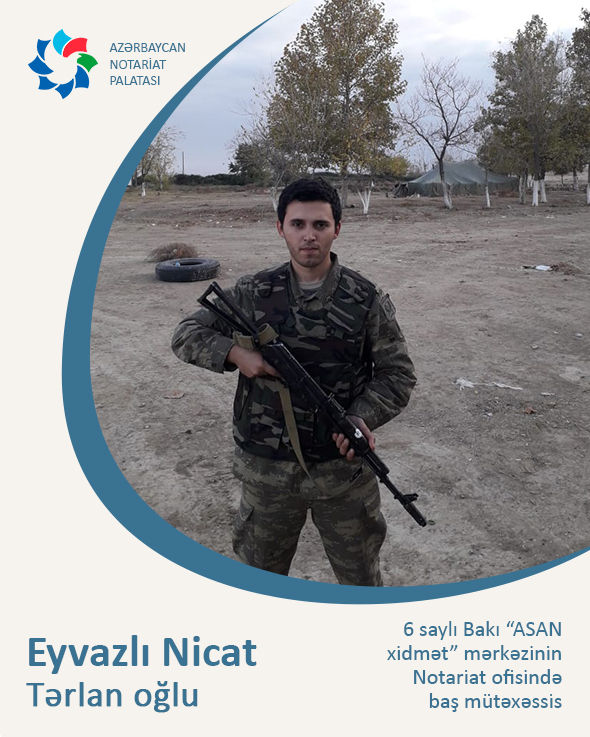
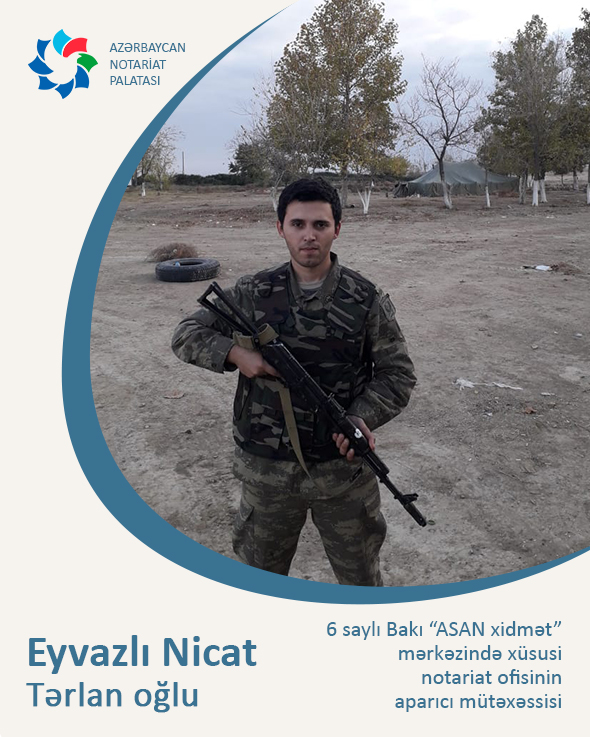
latest changes applied - range is changed

Changed region(s): [[0.5492, 0.8426, 0.9458, 0.9674]]

diff --git a/src/views/Home.vue b/src/views/Home.vue
@@ -64,6 +64,57 @@
           justify-content-md-between justify-content-center
         "
       >
+
+        <div class="col-md-3 col-9 box text-center mb-5" id="ozal">
+          <img src="../../public/images/ozal.jpg" alt="Avatar" class="image" />
+          <div class="overlay">
+            <router-link to="ozal" class="more_button">ƏTRAFLI</router-link>
+          </div>
+        </div>
+
+        <div class="col-md-3 col-9 box text-center mb-5" id="nofer">
+          <img src="../../public/images/nofer.jpg" alt="Avatar" class="image" />
+          <div class="overlay">
+            <router-link
+              to="nofer"
+              data-bs-toggle="modal"
+              data-bs-target="#exampleModal"
+              class="more_button"
+              >ƏTRAFLI</router-link
+            >
+          </div>
+        </div>
+
+        <div class="col-md-3 col-9 box text-center mb-5" id="nicat">
+          <img src="../../public/images/nicat.jpg" alt="Avatar" class="image" />
+          <div class="overlay">
+            <router-link
+              to="nicat"
+              data-bs-toggle="modal"
+              data-bs-target="#exampleModal"
+              class="more_button"
+              >ƏTRAFLI</router-link
+            >
+          </div>
+        </div>
+      </div>
+
+      <div
+        class="
+          row
+          mb-0 mb-md-4
+          box-container
+          justify-content-md-between justify-content-center
+        "
+      >
+
+       <div class="col-md-3 col-9 box text-center mb-5" id="ayxan">
+          <img src="../../public/images/ayxan.jpg" alt="Avatar" class="image" />
+          <div class="overlay">
+            <router-link to="ayxan" class="more_button">ƏTRAFLI</router-link>
+          </div>
+        </div>
+
         <div class="col-md-3 col-9 box text-center mb-5" id="ziya">
           <img src="../../public/images/ziya.jpg" alt="Avatar" class="image" />
           <div class="overlay">
@@ -81,13 +132,6 @@
             <router-link to="shamxal" class="more_button">ƏTRAFLI</router-link>
           </div>
         </div>
-
-        <div class="col-md-3 col-9 box text-center mb-5" id="ayxan">
-          <img src="../../public/images/ayxan.jpg" alt="Avatar" class="image" />
-          <div class="overlay">
-            <router-link to="ayxan" class="more_button">ƏTRAFLI</router-link>
-          </div>
-        </div>
       </div>
 
       <div
@@ -98,52 +142,10 @@
           justify-content-md-between justify-content-center
         "
       >
-        <div class="col-md-3 col-9 box text-center mb-5" id="nofer">
-          <img src="../../public/images/nofer.jpg" alt="Avatar" class="image" />
-          <div class="overlay">
-            <router-link
-              to="nofer"
-              data-bs-toggle="modal"
-              data-bs-target="#exampleModal"
-              class="more_button"
-              >ƏTRAFLI</router-link
-            >
-          </div>
-        </div>
-
-        <div class="col-md-3 col-9 box text-center mb-5" id="ozal">
-          <img src="../../public/images/ozal.jpg" alt="Avatar" class="image" />
-          <div class="overlay">
-            <router-link to="ozal" class="more_button">ƏTRAFLI</router-link>
-          </div>
-        </div>
-
-        <div class="col-md-3 col-9 box text-center mb-5" id="eli">
+      <div class="col-md-3 col-9 box text-center mb-5" id="eli">
           <img src="../../public/images/eli.jpg" alt="Avatar" class="image" />
           <div class="overlay">
             <router-link to="eli" class="more_button">ƏTRAFLI</router-link>
-          </div>
-        </div>
-      </div>
-
-      <div
-        class="
-          row
-          mb-0 mb-md-4
-          box-container
-          justify-content-md-between justify-content-center
-        "
-      >
-        <div class="col-md-3 col-9 box text-center mb-5" id="nicat">
-          <img src="../../public/images/nicat.jpg" alt="Avatar" class="image" />
-          <div class="overlay">
-            <router-link
-              to="nicat"
-              data-bs-toggle="modal"
-              data-bs-target="#exampleModal"
-              class="more_button"
-              >ƏTRAFLI</router-link
-            >
           </div>
         </div>
       </div>

diff --git a/src/views/nicat.vue b/src/views/nicat.vue
@@ -4,10 +4,26 @@
     <page
       title="Eyvazlı Nicat Tərlan oğlu"
       image="nicat.jpg"
-      body="<p>Eyvazlı Nicat Tərlan oğlu, 24.05.1997-ci ildə Qəbələ şəhərində anadan olmuşdur. Orta təhsilini 2003-2014-cü il tarixlərində Qəbələ şəhər Nicat Apayev adına tam-orta məktəbində almışdır. Ali təhsilini 2014-2018-ci illərdə Azərbaycan Dövlət İqtisad Universitenin Texnologiya və Dizayn fakültəsinin İnformasiya Texnologiyaları və Sitemləri mühəndisliyi üzrə almışdır. 01.11.2019-cu ildən 04.08.2021-ci ilədək 4 saylı Bakı “ASAN xidmət” mərkəzinin Notariat ofisində baş mütəxəssiz (böyük inspektor) vəzifəsində çalışıb. Hazırda 6 saylı Bakı “ASAN xidmət” mərkəzinin Notariat ofisində baş mütəxəssis (böyük inspektor) vəzifəsində çalışır. 21.09.2020-09.01.2021-ci ill tarixlərində ali baş komandanın sərəncamı ilə II Qarabağ müharibəsində, xüsusən də Talış və Suqovuşan bölgələrində gedən döyüşlərdə iştirak etmişdir. Hərbi rütbəsi əsgərdir.</p><p>Azərbaycan Respublikası Prezidenti, Silahlı Qüvvələrin Ali Baş Komandanı İlham Əliyevin sərəncamına əsasən “Laçının azad olunmasına görə” medalı  ilə, o cümlədən  Azərbaycan Respublikasının ədliyyə naziri I dərəcəli dövlət ədliyyə müşaviri Fikrət Məmmədovun əmrinə əsasən Vətən müharibəsində iştirak edərək fədakarlıq göstərdiyinə görə Fəxri fərmanla təltif edilmişdir.</p>
-      <p>Azərbaycan Respublikası Prezidenti, Silahlı Qüvvələrin Ali Baş Komandanı İlham Əliyevin 24.06.2021-ci tarixli  sərəncamına əsasən “Suqovuşanın azad olunmasına görə” medalı ilə təltif edilmişdir.</p>"
-      next="../../views/ziya"
-      previous="../../views/eli"
+      body="<p>Eyvazlı Nicat Tərlan oğlu, 24.05.1997-ci ildə Qəbələ şəhərində anadan olmuşdur. Orta təhsilini
+      2003-2014-cü il tarixlərində Qəbələ şəhər Nicat Apayev adına tam-orta məktəbində almışdır. Ali
+      təhsilini 2014-2018-ci illərdə Azərbaycan Dövlət İqtisad Universitenin Texnologiya və Dizayn
+      fakültəsinin İnformasiya Texnologiyaları və Sitemləri mühəndisliyi üzrə almışdır. 01.11.2019-cu
+      ildən 04.08.2021-ci ilədək 4 saylı Bakı “ASAN xidmət” mərkəzindəki xüsusi notariat ofisinin
+      aparıcı mütəxəssisi (böyük inspektor) vəzifəsində çalışıb. Hazırda 6 saylı Bakı “ASAN xidmət”
+      mərkəzindəki xüsusi notariat ofisinin aparıcı mütəxəssisi (böyük inspektor)vəzifəsində çalışır.</p>
+
+      <p>21.09.2020-09.01.2021-ci il tarixlərində ali baş komandanın sərəncamı ilə II Qarabağ
+      müharibəsində, xüsusən də Talış və Suqovuşan bölgələrində gedən döyüşlərdə iştirak etmişdir.
+      Hərbi rütbəsi əsgərdir.</p>
+
+      <p>Azərbaycan Respublikası Prezidenti, Silahlı Qüvvələrin Ali Baş Komandanı İlham Əliyevin
+      müvafiq sərəncamlarına əsasən “Laçının azad olunmasına görə” medalı və “Suqovuşanın azad
+      olunmasına görə” medalları ilə, o cümlədən Azərbaycan Respublikasının ədliyyə naziri I dərəcəli
+      dövlət ədliyyə müşaviri Fikrət Məmmədovun əmrinə əsasən Vətən müharibəsində iştirak edərək
+      fədakarlıq göstərdiyinə görə Fəxri fərmanla təltif edilmişdir.</p>"
+
+      next="../../views/ayxan"
+      previous="../../views/nofer"
     />
   </div>
 </template>

diff --git a/src/views/ozal.vue b/src/views/ozal.vue
@@ -6,8 +6,8 @@
       image="ozal.jpg"
       body="<p>Abulbəyli Ozal Məstan oğlu, 04.05.1992-ci ildə Bakı şəhərində anadan olmuşdur. Orta təhsilini 1998-2009-cu illərdə Bakı şəhəri, Binəqədi rayonu 99 saylı orta məktəbdə almışdır. Ali təhsilini 2010-2014-cü illərdə Bakı Dövlət Universitetinin Coğrafiya fakültəsinin İqtisadi Sosial Coğrafiya ixtisası üzrə almışdır. 2014-cü ildə Silahlı Qüvəllərin Təlim və Tədris Mərkəzinin Ehtiyyat zabit hazırlığı kursuna daxil olmuşdur. 02.02.2015-ci il tarixdə həmin kursu bitirib, leytenant hərbi rütbəsi almışdır. 2015-ci ilin mart ayında 191 saylı hərbi hissənin 4-cü tabor 12-ci bölük komandirinin şəxsi heyətlə iş üzrə müavini vəzifəsində xidmət etmişdir. 01.10.2016-cı il tarixdə müqavilə müddətinin bitməsi səbəbindən ehtiyyata buraxılmışdır. 13.09.2019- cu il tarixindən etibarən 2 saylı Bakı “ASAN xidmət” mərkəzinin notariat ofisində baş mütəxəssis (böyük inspektor) vəzifəsində çalışır. 21.09.2020-ci il tarixdə Bakı şəhəri, Binəqədi rayon hərbi komisarlığı tərəfindən Silahlı Qüvvələrin təliminə cəlb edilmişdir. 29.09.2020-ci il tarixdə Ali Baş Komandanın əmrinə əsasən işğal olunmuş torpaqlarımızın azad olunması uğrunda döyüşlərə qatılmışdır. 14.10.2020-ci il tarixdə Füzuli uğrunda gedən döyüşlərdə yaralanmışdır.  
 </p><p>Azərbaycan Respublikası Prezidenti, Silahlı Qüvvələrin Ali Baş Komandanı İlham Əliyevin sərəncamına əsasən “Füzulinin azad olunmasına görə” medalı  ilə, o cümlədən  Azərbaycan Respublikasının ədliyyə naziri I dərəcəli dövlət ədliyyə müşaviri Fikrət Məmmədovun əmrinə əsasən Vətən müharibəsində iştirak edərək fədakarlıq göstərdiyinə görə Fəxri fərmanla təltif edilmişdir.</p>"
-      next="../../views/eli"
-      previous="../../views/nofer"
+      next="../../views/nofer"
+      previous="../../views/eli"
     />
   </div>
 </template>

diff --git a/src/views/nofer.vue b/src/views/nofer.vue
@@ -6,8 +6,8 @@
       image="nofer.jpg"
       body="<p>Xodayev Nofər Nemət oğlu, 24 may 1996-cı ildə Balakən rayonunun Katex kəndində anadan olmuşdur. Orta təhsilini 2002-2013-cü illərdə Balakən rayonu, Katex kənd 1 saylı tam orta məktəbdə almışdır. Ali təhsilini 2013-2017-ci illərdə Azərbaycan Dövlət İqtisad Universitetinin İnformatika və İdarəetmə fakültəsinin Menecment ixtisası üzrə almışdır. 2017-2018-ci illərdə həqiqi hərbi xidmətdə olmuşdur. 23.09.2019-cu il tarixindən etibarən 2 saylı Bakı “ASAN xidmət” mərkəzinin notariat ofisində baş mütəxəssis (böyük inspektor) vəzifəsində çalışır. 28.09.2020-ci il tarixdə Bakı şəhəri, Nəsimi rayon hərbi komissarlığı tərəfindən Silahlı Qüvvələrin təliminə cəlb olunmuş, 03.10.2020-ci il tarixdə Ali Baş Komandanın əmrinə əsasən işğal olunmuş torpaqlarımızın azad olunması uğrunda döyüşlərə qatılmışdır. Füzuli, Cəbrayıl və Xocavənd rayonları istiqamətində gedən döyüşlərdə iştirak etmişdir.  
     </p><p>Azərbaycan Respublikası Prezidenti, Silahlı Qüvvələrin Ali Baş Komandanı İlham Əliyevin sərəncamına əsasən “Laçının azad olunmasına görə” medalı  ilə, o cümlədən  Azərbaycan Respublikasının ədliyyə naziri I dərəcəli dövlət ədliyyə müşaviri Fikrət Məmmədovun əmrinə əsasən Vətən müharibəsində iştirak edərək fədakarlıq göstərdiyinə görə Fəxri fərmanla təltif edilmişdir.</p>"
-      next="../../views/ozal"
-      previous="../../views/ayxan"
+      next="../../views/nicat"
+      previous="../../views/ozal"
     />
   </div>
 </template>

diff --git a/src/views/ayxan.vue b/src/views/ayxan.vue
@@ -7,8 +7,8 @@
       body="
       <p>Məmmədli Ayxan Qüdrət oğlu, 21.09.1996-cı ildə Bakı şəhərində anadan olmuşdur. Orta təhsilini 2002-2013-cü illərdə Bakı şəhəri, Yasamal rayonu 153 saylı orta məktəbdə almışdır. Ali təhsilini Milli Aviasiya Akademiyasının Uçuş Mühəndisliyi ixtisası üzrə almışdır. 2018-2019-cu illərdə həqiqi hərbi xidmətdə olmuşdur. 03.07.2020-ci il tarixdən Bakı şəhəri, 52 saylı notariat ofisində könüllü kimi fəaliyyətə başlamışdır. 28.09.2020-ci il tarixdə Yasamal rayon hərbi komissarlığı tərəfindən Silahlı Qüvvələrin təliminə cəlb olunmuş, 29.09.2021-ci il tarixdə Ali Baş Komandanın əmrinə əsasən işğal olunmuş torpaqlarımızın azad olunması uğrunda döyüşlərə qatılmışdır. Cəbrayıl, Füzuli, Xocavənd rayonlarının azadlığı uğrunda gedən döyüşlərdə iştirak etmişdir. </p>
     <p>Azərbaycan Respublikası Prezidenti, Silahlı Qüvvələrin Ali Baş Komandanı İlham Əliyevin sərəncamına əsasən “Laçının azad olunmasına görə” medalı  ilə, o cümlədən  Azərbaycan Respublikasının ədliyyə naziri I dərəcəli dövlət ədliyyə müşaviri Fikrət Məmmədovun əmrinə əsasən Vətən müharibəsində iştirak edərək fədakarlıq göstərdiyinə görə Fəxri fərmanla təltif edilmişdir.</p>"
-      next="../../views/nofer"
-      previous="../../views/shamxal"
+      next="../../views/ziya"
+      previous="../../views/nicat"
     />
   </div>
 </template>

diff --git a/src/views/shamxal.vue b/src/views/shamxal.vue
@@ -7,7 +7,7 @@
       body="
     <p>Zeynalov Şamxal Mübariz oğlu, 01.09.1988-ci ildə Bərdə rayonunun Şirvanlı kəndində anadan olmuşdur. Orta təhsilini Bərdə rayonu, Vüqar Sadıqov adına Şirvanlı kənd orta məktəbində almışdır. Ali təhsilini 2005-2010-cu illərdə Lənkəran Dövlət Universitetinin Humanitar və Pedaqoji elmlər fakültəsinin İngilis dili və ədəbiyyatı ixtisası üzrə almışdır. Hazırda Bərdə Regional “ASAN xidmət” mərkəzinin notariat ofisində baş mütəxəssis (böyük inspektor) vəzifəsində çalışır. 28.09.2020-12.01.2021-ci il tarixlərində ali baş komandanın sərəncamı ilə II Qarabağ müharibəsində, xüsusən də Goranboy və Laçın bölgələrində gedən döyüşlərdə iştirak etmişdir. Hərbi rütbəsi Baş leytenantdır. </p>
     <p>Azərbaycan Respublikası Prezidenti, Silahlı Qüvvələrin Ali Baş Komandanı İlham Əliyevin sərəncamına əsasən “Hərbi xidmətlərə görə” medalı  ilə, o cümlədən Azərbaycan Respublikasının ədliyyə naziri I dərəcəli dövlət ədliyyə müşaviri Fikrət Məmmədovun əmrinə əsasən Vətən müharibəsində iştirak edərək fədakarlıq göstərdiyinə görə Fəxri fərmanla təltif edilmişdir.</p>"
-      next="../../views/ayxan"
+      next="../../views/eli"
       previous="../../views/ziya"
     />
   </div>

diff --git a/src/views/eli.vue b/src/views/eli.vue
@@ -5,8 +5,8 @@
       title="Novruzov Əli Novruz oğlu"
       image="eli.jpg"
       body="<p>Novruzov Əli Novruz oğlu, 17.03.1995-ci ildə Zaqatala rayonunda anadan olmuşdur. Orta təhsilini Zaqatala şəhəri, Ş.Qurbanov adına 3 saylı orta məktəbdə almışdır. Ali təhsilini Zaqatala rayon Dövlət İdarəetma və Texnologiya Kollecində almışdır. 2015-2017-ci illərdə hərbi xidmətdə olmuşdur. 2017-2018-ci illərdə kredit təşkilatında çalışmışdır. 2019-cu ilin noyabr ayından etibarən Balakən Regional “ASAN xidmət” mərkəzinin Qeydiyyat şõbəsində baş mütəxəssis vəzifəsində çalışır.</p><p> 30.10.2020-ci il tarixdən 31.12.2020-ci il tarixədək Vətən müharibəsində iştirak etmişdir.</p>"
-      next="../../views/nicat"
-      previous="../../views/ozal"
+      next="../../views/ozal"
+      previous="../../views/shamxal"
     />
   </div>
 </template>

diff --git a/src/views/ziya.vue b/src/views/ziya.vue
@@ -10,7 +10,7 @@
     
     <p> Azərbaycan Respublikası Prezidenti, Silahlı Qüvvələrin Ali Baş Komandanı İlham Əliyevin sərəncamlarına əsasən “Cəbrayılın azad olunmasına görə”, “Qubadlının azad olunmasına görə” və “Cəsur döyüşçü” medalları ilə, o cümlədən Azərbaycan Respublikasının ədliyyə naziri I dərəcəli dövlət ədliyyə müşaviri Fikrət Məmmədovun əmrinə əsasən Vətən müharibəsində iştirak edərək fədakarlıq göstərdiyinə görə Fəxri fərmanla təltif edilmişdir.  </p>"
       next="../../views/shamxal"
-      previous="../../views/nicat"
+      previous="../../views/ayxan"
     />
   </div>
 </template>
